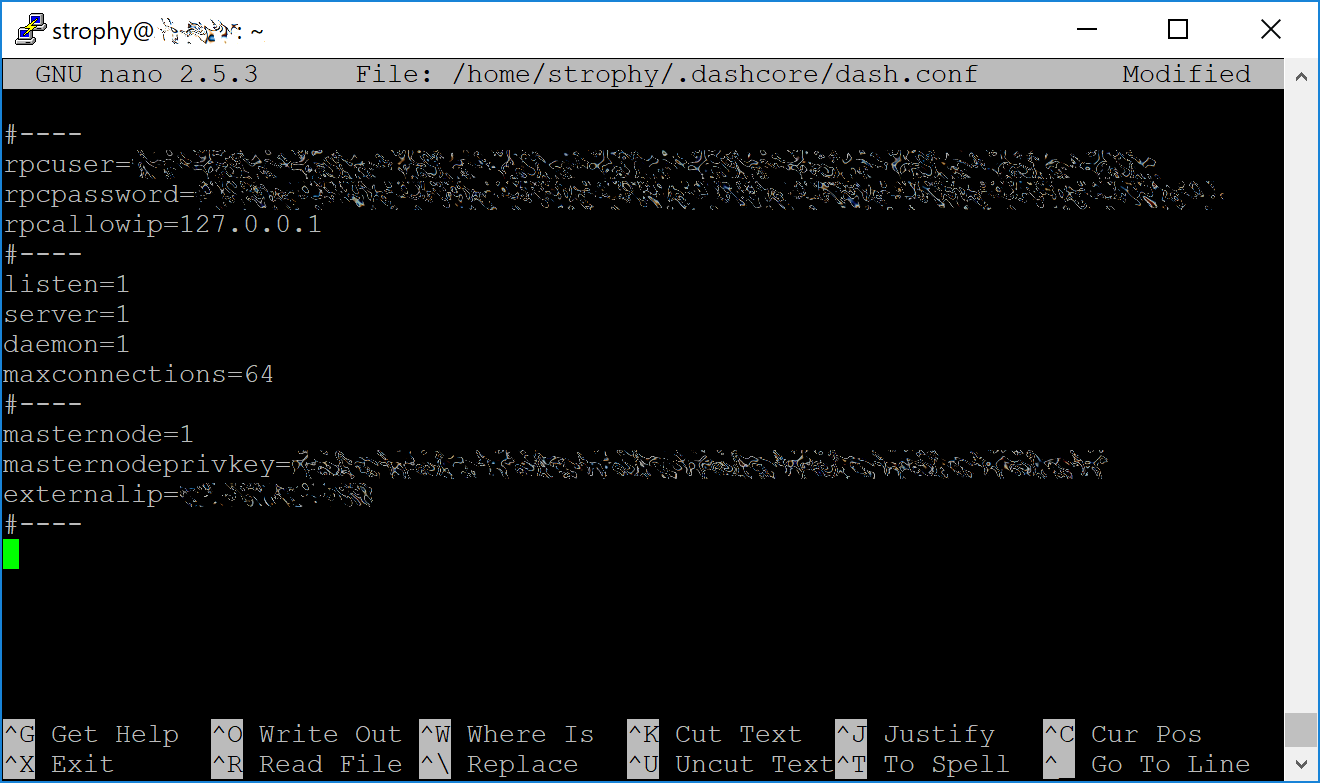
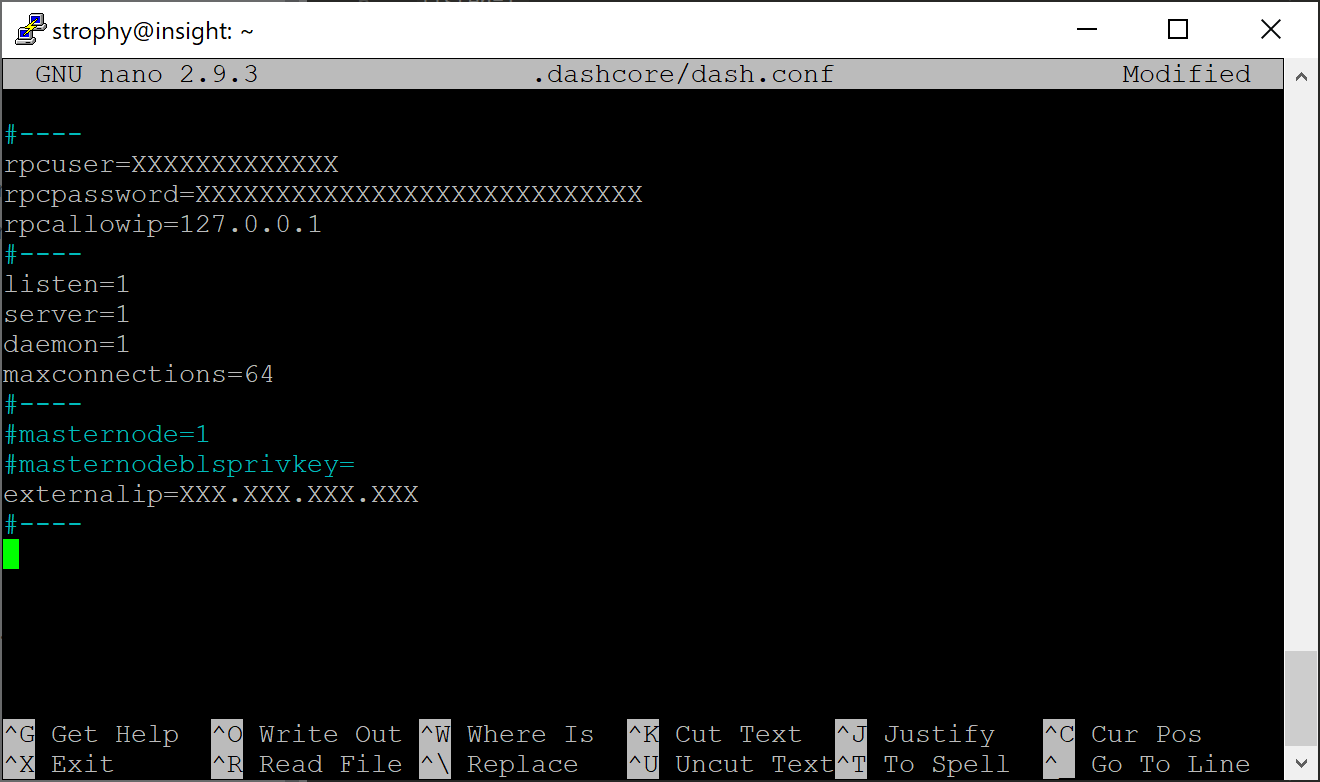
Updating masternode manual setup

diff --git a/masternodes/setup.rst b/masternodes/setup.rst
@@ -543,10 +543,9 @@ follows::
   daemon=1
   maxconnections=64
   #----
-  masternode=1
-  masternodeprivkey=XXXXXXXXXXXXXXXXXXXXXXX
+  #masternode=1
+  #masternodeblsprivkey=XXXXXXXXXXXXXXXXXXXXXXXXXXX
   externalip=XXX.XXX.XXX.XXX
-  masternodeblsprivkey=XXXXXXXXXXXXXXXXXXXXXXXXXXX
   #----
 
 Replace the fields marked with ``XXXXXXX`` as follows:
@@ -555,8 +554,6 @@ Replace the fields marked with ``XXXXXXX`` as follows:
   characters allowed
 - ``rpcpassword``: enter any string of numbers or letters, no special
   characters allowed
-- ``masternodeprivkey``: this is the legacy masternode private key you
-  generated in the previous step
 - ``externalip``: this is the IP address of your VPS
 
 The result should look something like this:
@@ -671,10 +668,10 @@ follows::
 
   nano ~/.axecore/axe.conf
 
-The editor appears with the existing masternode configuration. Add this
-line to the end of the file, replacing the key with your BLS secret key
-generated above::
+The editor appears with the existing masternode configuration. Add or uncomment these 
+lines in the file, replacing the key with your BLS private key generated above::
 
+  masternode=1
[1 lines of base64/hex data omitted]
 
 Press enter to make sure there is a blank line at the end of the file,
@@ -684,6 +681,7 @@ effect. Enter the following commands, waiting a few seconds in between
 to give Axe Core time to shut down::
 
   ~/.axecore/axe-cli stop
+  sleep 15
   ~/.axecore/axed
 
 At this point you can monitor your masternode using 
@@ -759,10 +757,11 @@ masternode as follows::
 
   nano ~/.axecore/axe.conf
 
-The editor appears with the existing masternode configuration. Add this
-line to the end of the file, replacing the key with your BLS secret key
-generated above::
+The editor appears with the existing masternode configuration. Add or
+uncomment these lines in the file, replacing the key with your BLS
+private key generated above::
 
+  masternode=1
[1 lines of base64/hex data omitted]
 
 Press enter to make sure there is a blank line at the end of the file,
@@ -772,6 +771,7 @@ effect. Enter the following commands, waiting a few seconds in between
 to give Axe Core time to shut down::
 
   ~/.axecore/axe-cli stop
+  sleep 15
   ~/.axecore/axed
 
 We will now prepare the transaction used to register a DIP003 masternode
@@ -780,27 +780,47 @@ on the network.
 Prepare a ProRegTx transaction
 ^^^^^^^^^^^^^^^^^^^^^^^^^^^^^^
 
+A pair of BLS keys for the operator were already generated above, and
+the private key was entered on the masternode. The public key is used in
+this transaction as the ``operatorPubKey``.
+
 First, we need to get a new, unused address from the wallet to serve as
-the owner address. This is different to the collateral address. It must
-also be used as the voting address if Spork 15 is not yet active.
-Generate a new address as follows::
+the **owner key address** (``ownerKeyAddr``). This is not the same as
+the collateral address holding 1000 Dash. Generate a new address as
+follows::
 
   getnewaddress
 
   yMwR1zf2Cv9gcMdHULRVbTTMGw7arvpbM5
 
-Then either generate or choose an existing second address to receive the
-owner's masternode payouts::
+This address can also be used as the **voting key address**
+(``votingKeyAddr``). Alternatively, you can specify an address provided
+to you by your chosen voting delegate, or simply generate a new voting
+key address as follows::
+
+  getnewaddress
+
+  yfRaZN8c3Erpqj9iKnmQ9QDBeUuRhWV3Mg
+
+Then either generate or choose an existing address to receive the
+**owner's masternode payouts** (``payoutAddress``). It is also possible
+to use an address external to the wallet::
 
   getnewaddress
 
   yLqyR8PHEB7Fp1ue8nSuLfuxQhrj5PSTDv
 
-You can also optionally generate and fund a third address to pay the
-transaction fee. The private keys to the owner and fee source addresses
-must exist in the wallet submitting the transaction to the network. If
-your wallet is protect by a password, it must now be unlocked to perform
-the following commands. Unlock your wallet for 5 minutes::
+You can also optionally generate and fund another address as the
+**transaction fee source** (``feeSourceAddress``). If you selected an
+external payout address, you must specify a fee source address. Either
+the payout address or fee source address must have enough balance to pay
+the transaction fee, or the final ``register_submit`` transaction will
+fail.
+
+The private keys to the owner and fee source addresses must exist in the
+wallet submitting the transaction to the network. If your wallet is
+protected by a password, it must now be unlocked to perform the
+following commands. Unlock your wallet for 5 minutes::
 
   walletpassphrase yourSecretPassword 300
 
@@ -847,7 +867,7 @@ Example (remove line breaks if copying)::
     140.82.59.51:9999
     yMwR1zf2Cv9gcMdHULRVbTTMGw7arvpbM5 
[1 lines of base64/hex data omitted]
-    yMwR1zf2Cv9gcMdHULRVbTTMGw7arvpbM5 
+    yfRaZN8c3Erpqj9iKnmQ9QDBeUuRhWV3Mg 
     0
     yLqyR8PHEB7Fp1ue8nSuLfuxQhrj5PSTDv
 
@@ -856,7 +876,7 @@ Output::
   {
[1 lines of base64/hex data omitted]
     "collateralAddress": "yiFfzbwiN9oneftd7cEfr3kQLRwQ4kp7ue",
-    "signMessage": "yLqyR8PHEB7Fp1ue8nSuLfuxQhrj5PSTDv|0|yMwR1zf2Cv9gcMdHULRVbTTMGw7arvpbM5|yMwR1zf2Cv9gcMdHULRVbTTMGw7arvpbM5|4e00de34ee03d28adb4e1fdaec966ae239c11da7e6115f566fc4b3f75c8a5503"
+    "signMessage": "yLqyR8PHEB7Fp1ue8nSuLfuxQhrj5PSTDv|0|yMwR1zf2Cv9gcMdHULRVbTTMGw7arvpbM5|yfRaZN8c3Erpqj9iKnmQ9QDBeUuRhWV3Mg|4e00de34ee03d28adb4e1fdaec966ae239c11da7e6115f566fc4b3f75c8a5503"
   }
 
 Next we will use the ``collateralAddress`` and ``signMessage`` fields to
@@ -878,7 +898,7 @@ function of a hardware wallet. The command takes the following syntax::
 
 Example::
 
-  signmessage yiFfzbwiN9oneftd7cEfr3kQLRwQ4kp7ue yLqyR8PHEB7Fp1ue8nSuLfuxQhrj5PSTDv|0|yMwR1zf2Cv9gcMdHULRVbTTMGw7arvpbM5|yMwR1zf2Cv9gcMdHULRVbTTMGw7arvpbM5|4e00de34ee03d28adb4e1fdaec966ae239c11da7e6115f566fc4b3f75c8a5503
+  signmessage yiFfzbwiN9oneftd7cEfr3kQLRwQ4kp7ue yLqyR8PHEB7Fp1ue8nSuLfuxQhrj5PSTDv|0|yMwR1zf2Cv9gcMdHULRVbTTMGw7arvpbM5|yfRaZN8c3Erpqj9iKnmQ9QDBeUuRhWV3Mg|4e00de34ee03d28adb4e1fdaec966ae239c11da7e6115f566fc4b3f75c8a5503
 
 Output::
 
